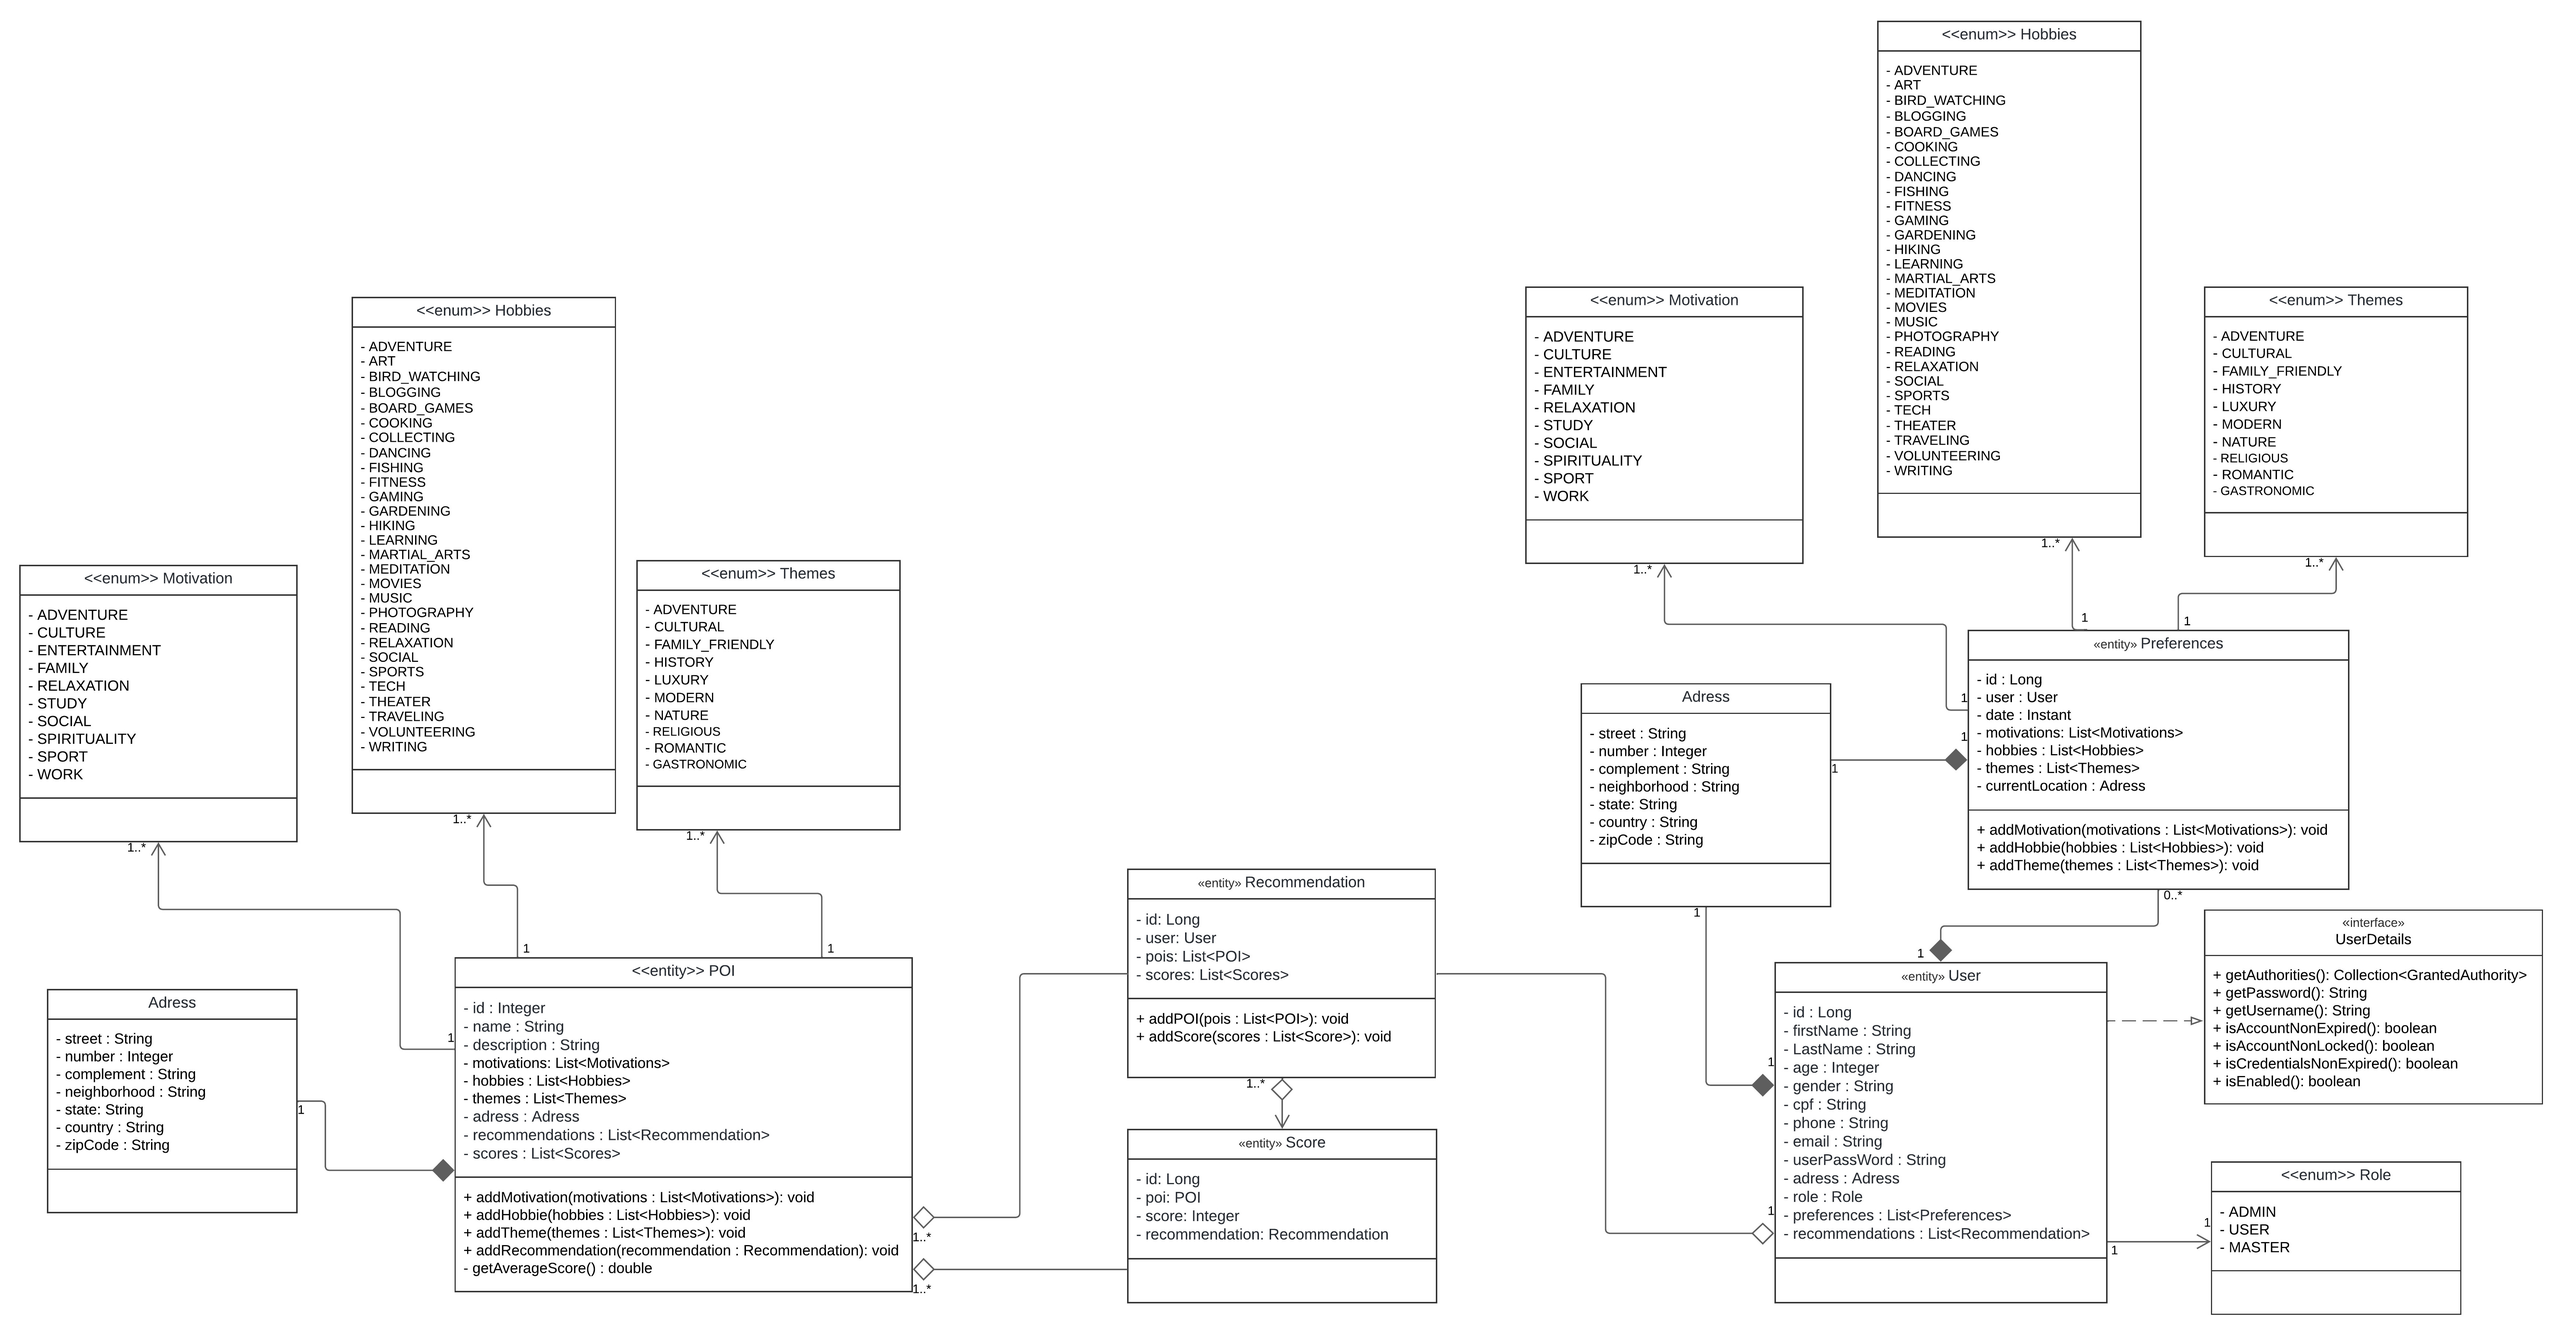
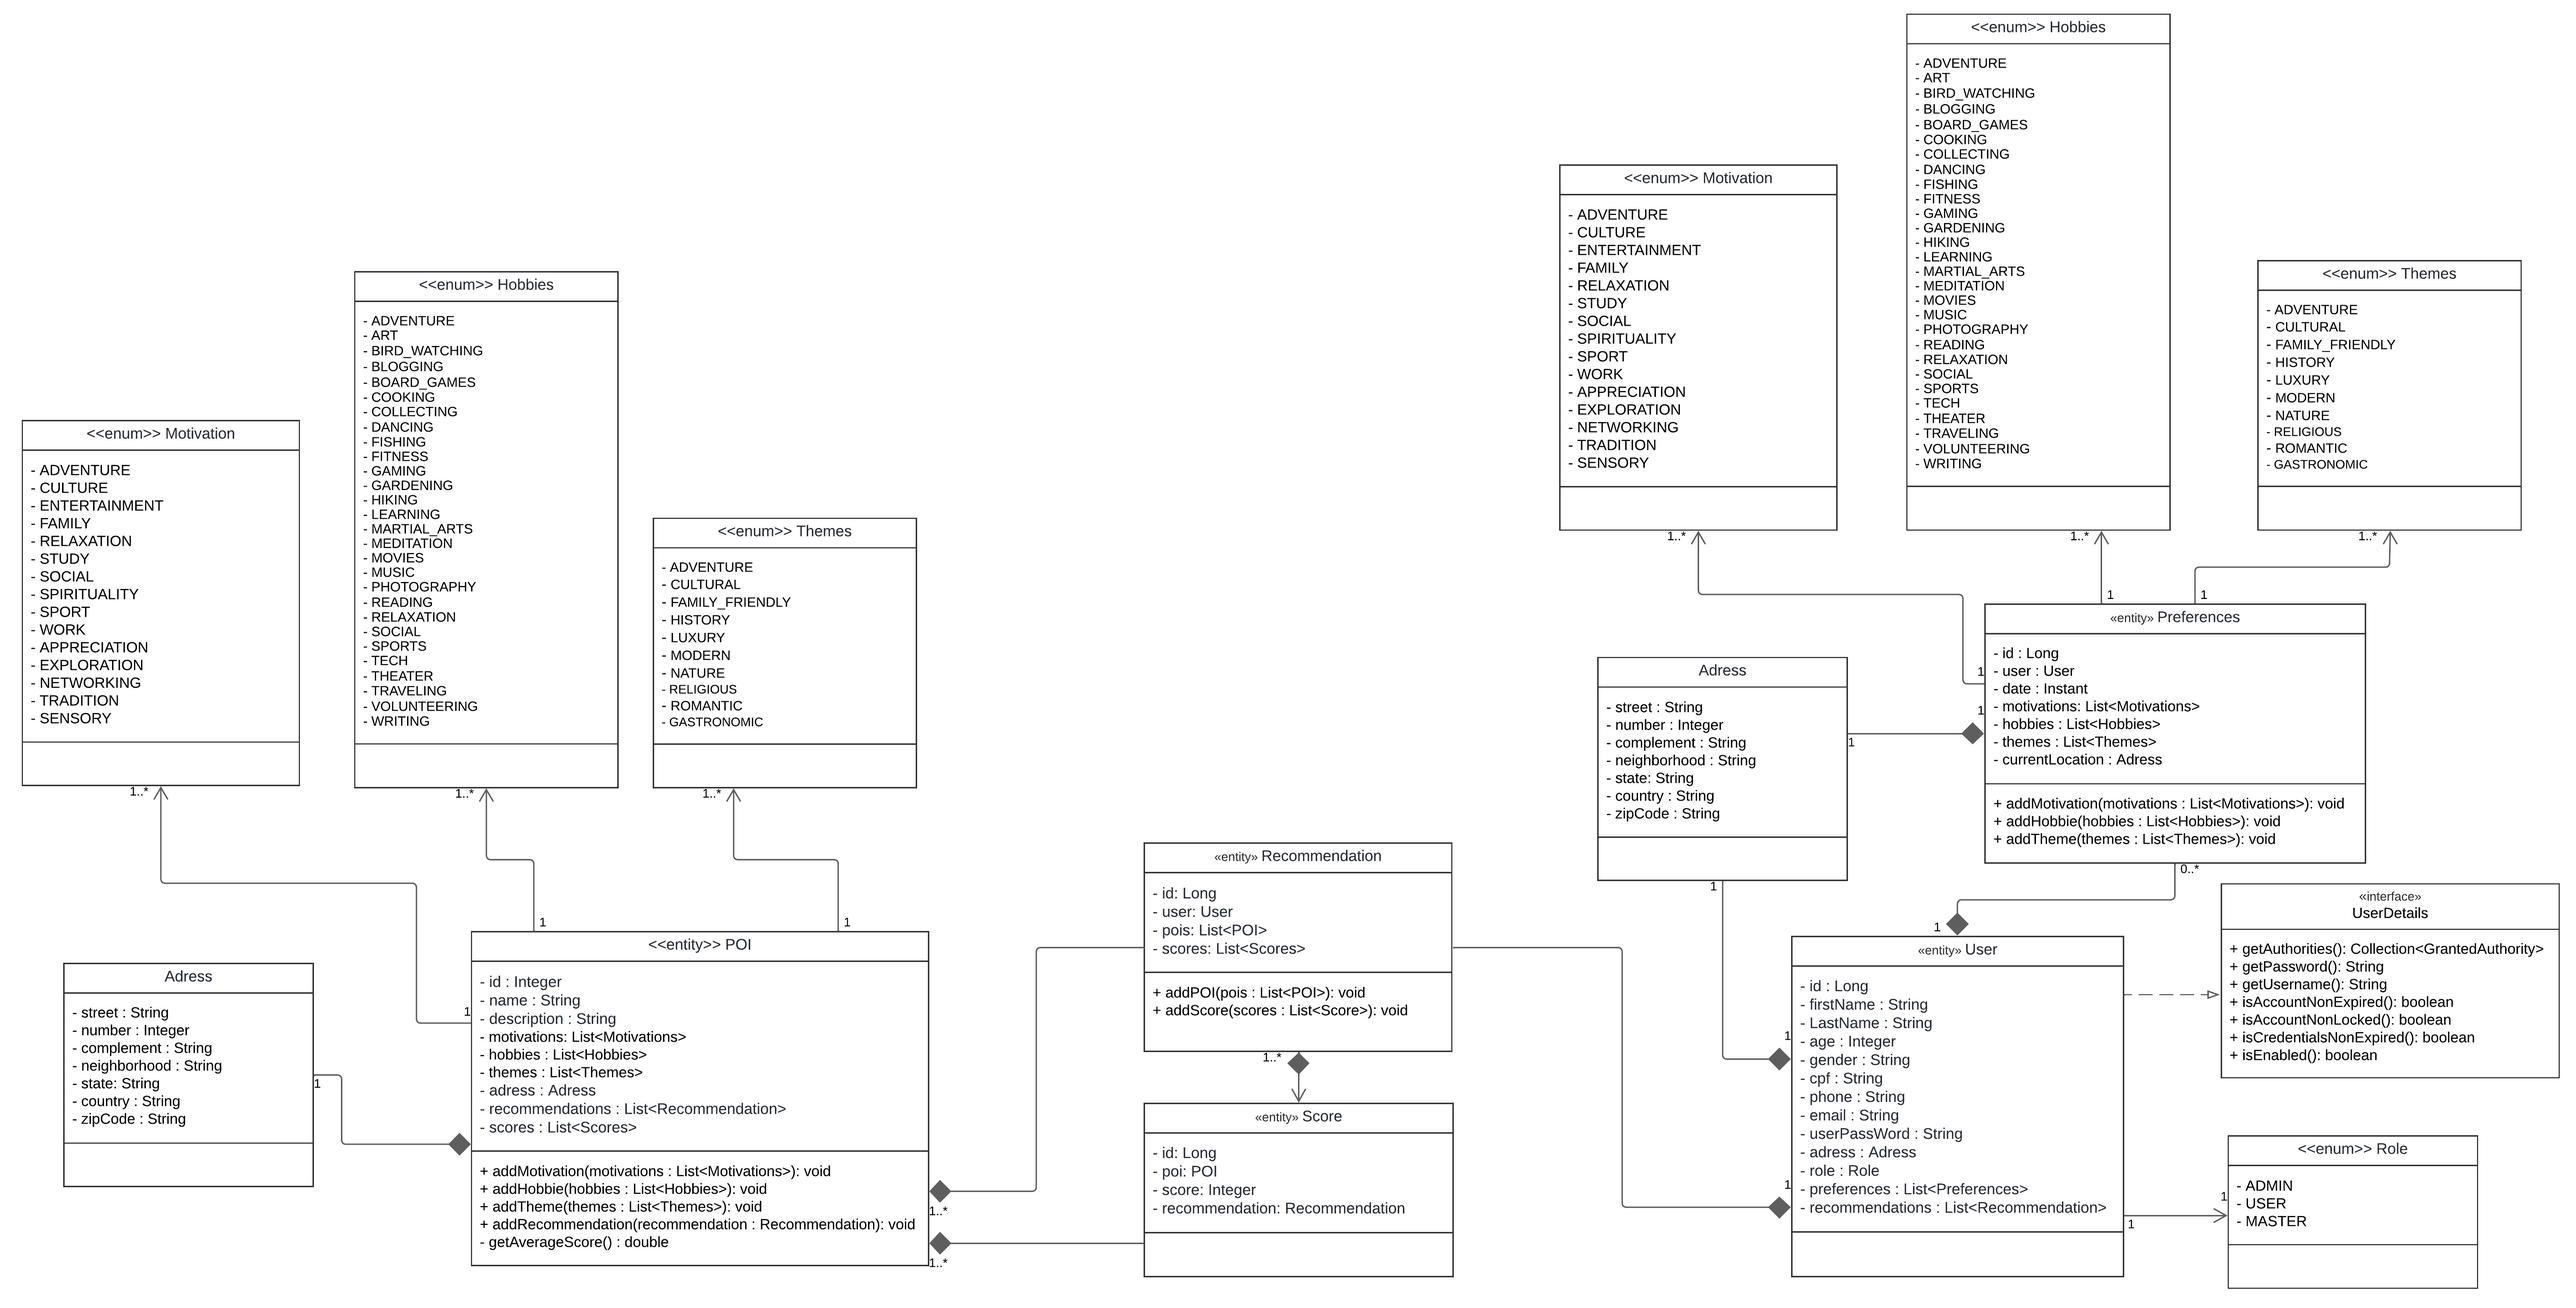
fix: UML - Classes, Enum Motivations, and POIDTO

diff --git a/Recommender-System-PE/src/main/java/com/recommendersystempe/dtos/POIDTO.java b/Recommender-System-PE/src/main/java/com/recommendersystempe/dtos/POIDTO.java
@@ -42,28 +42,28 @@ public class POIDTO {
     @Setter
     @Schema(description = "Description of a POI", example = "Lake", required = true)
     @NotBlank(message = "The field description is required")
-    @Size(min = 50, max = 500, message = "The field description must be between 50 and 500 characters")
+    @Size(min = 50, max = 1000, message = "The field description must be between 50 and 1000 characters")
     private String description;
 
     @Getter
     @JsonFormat(shape = JsonFormat.Shape.STRING)
     @Schema(description = "List of motivations associated with the preferences", example = "[\"CULTURE\", \"ENTERTAINMENT\"]", required = true)
     @NotNull(message = "The field motivations is required")
-    @Size(min = 1, max = 5, message = "The field motivation must have 1 to 5 elements")
+    @Size(min = 5, max = 5, message = "The field motivation must have 1 to 5 elements")
     private List<Motivations> motivations = new ArrayList<>();
 
     @Getter
     @JsonFormat(shape = JsonFormat.Shape.STRING)
     @Schema(description = "List of hobbies associated with the preferences", example = "[\"ADVENTURE\", \"ART\"]", required = true)
     @NotNull(message = "The field hobbies is required")
-    @Size(min = 1, max = 5, message = "The field hobbies must have 1 to 5 elements")
+    @Size(min = 5, max = 5, message = "The field hobbies must have 1 to 5 elements")
     private List<Hobbies> hobbies = new ArrayList<>();
 
     @Getter
     @JsonFormat(shape = JsonFormat.Shape.STRING)
     @Schema(description = "List of themes associated with the preferences", example = "[\"ADVENTURE\", \"CULTURAL\"]", required = true)
     @NotNull(message = "The field themes is required")
-    @Size(min = 1, max = 5, message = "The field themes must have 1 to 5 elements")
+    @Size(min = 5, max = 5, message = "The field themes must have 1 to 5 elements")
     private List<Themes> themes = new ArrayList<>();
 
     @Getter

diff --git a/Recommender-System-PE/src/main/java/com/recommendersystempe/enums/Motivations.java b/Recommender-System-PE/src/main/java/com/recommendersystempe/enums/Motivations.java
@@ -10,6 +10,11 @@ public enum Motivations {
     SOCIAL,
     SPERITUALITY,
     SPORT,
-    WORK;
+    WORK,
+    APPRECIATION, 
+    EXPLORATION,  
+    NETWORKING,   
+    TRADITION,  
+    SENSORY
     
 }
